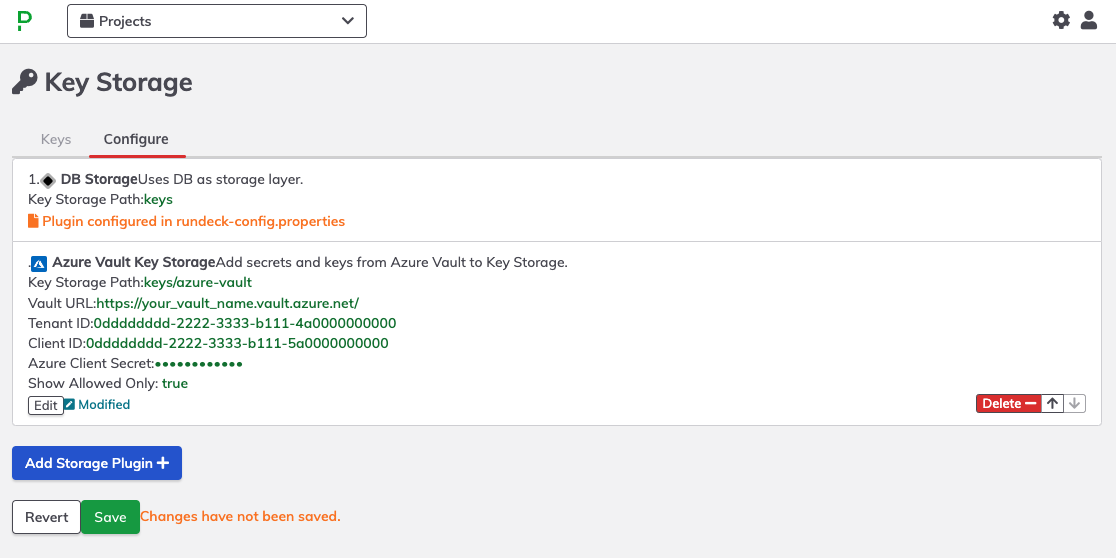
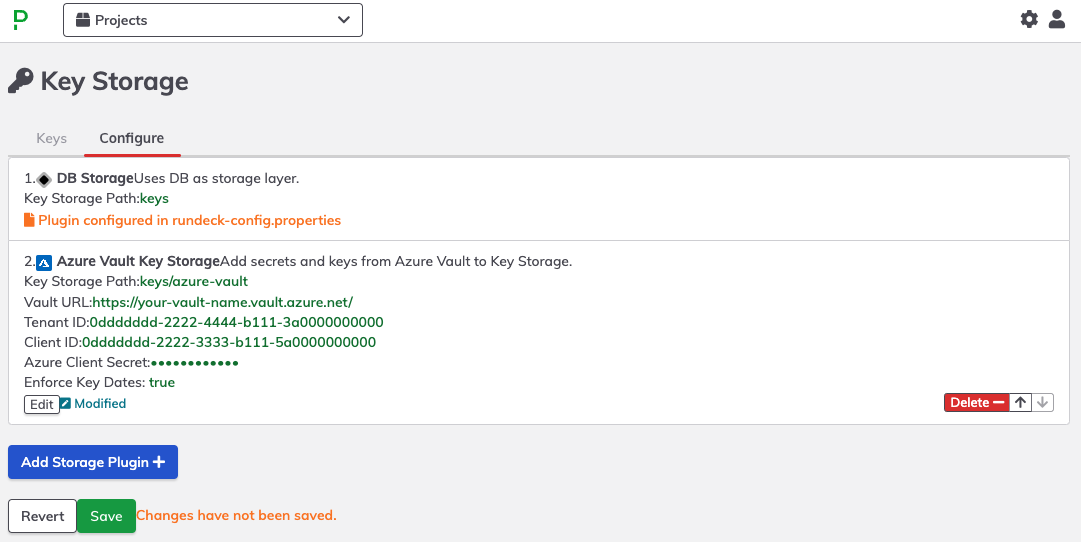
rename show allowed only to enforce key dates

diff --git a/docs/manual/key-storage/storage-plugins/azure-vault.md b/docs/manual/key-storage/storage-plugins/azure-vault.md
@@ -36,8 +36,8 @@ See [Azure AKS resource model plugin](manual/projects/resource-model-sources/azu
    - **Tenant ID**: The Azure Tenant ID. If not provided, the value from the Azure plugin group at the System context will be used.
    - **Client ID**: The Azure Client ID. If not provided, the Client ID value from the Azure plugin group at the System context will be used.
    - **Azure Client Secret**: The Azure Client Secret. 
-9. Choose `true` in **Show Allowed Only** if you want to hide keys based on their `Activation date` and `Expiration date` values. Disabled keys are always hidden.
-![Show Allowed Only](/assets/img/azure-vault-show-allowed.png)
+9. Choose `true` in **Enforce Key Dates** if you want to hide keys based on their `Activation date` and `Expiration date` values. Disabled keys are always hidden.
+![Enforce Key Dates](/assets/img/azure-vault-enforce-key-dates.png)
 8. Click **Save** to commit changes for the integration.
 9. Click **Save** to add this integration to the Key Storage configuration.
 ![Save config](/assets/img/azure-vault-save-config.png)
@@ -88,7 +88,7 @@ Updating a secret using Rundeck Key Storage will only modify Rundeck-related tag
 
 ### Expired and Not-Yet-Enabled Secrets
 
-Azure Key Vault allows setting Activation and Expiration dates for keys and secrets. You can choose to respect these dates using the **Show Allowed Only** plugin configuration:
+Azure Key Vault allows setting Activation and Expiration dates for keys and secrets. You can choose to respect these dates using the **Enforce Key Dates** plugin configuration:
 - If set to `true`, only active secrets within their valid date range will be visible and usable in Rundeck.
 - If set to `false`, all secrets will be visible and usable, regardless of their activation or expiration status. This does not include **disabled** or **deleted** secrets. 
 
